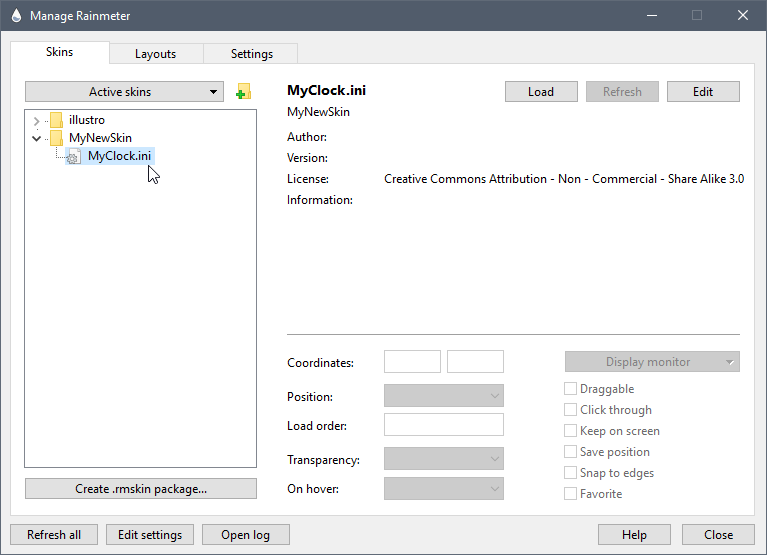
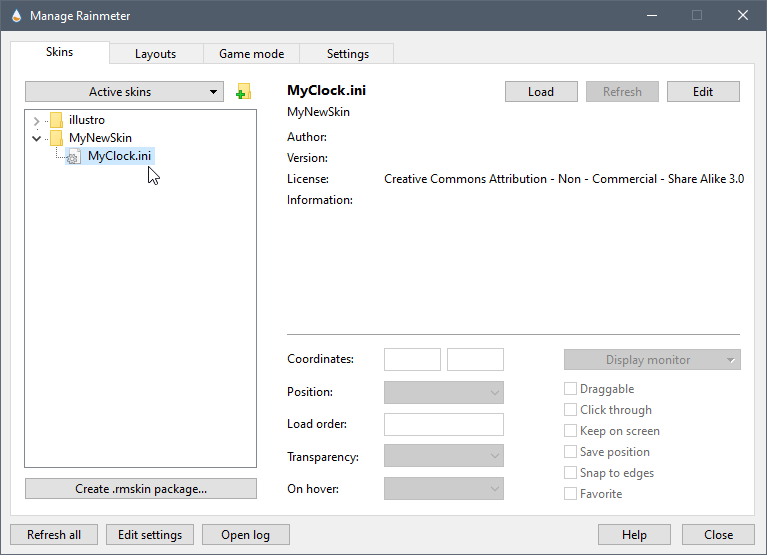
Changes for Game mode.

diff --git a/source/manual-beta/user-interface/manage/index.html b/source/manual-beta/user-interface/manage/index.html
@@ -196,6 +196,48 @@ title: 'Manage'
 
 <p>The current Rainmeter state will be replaced with the named layout. If Rainmeter is not running, it will be started.</p>
 
+<h2 id="GameModeTab">The Game mode tab</h2>
+
+<p>Game mode is used to unload some or all skins when running a full-screen game, in order to save Rainmeter CPU and GPU resources while playing.</p>
+
+<p>This can be configured to be <em>automatically</em> triggered by checking the <code>Full-screen games</code> box, which will automatically enter Game mode when any full-screen D3D game is active on the primary monitor.</p>
+
+<p>In addition, one or more processes of your choice that are not full-screen D3D games can be entered one process per line in the <code>Additional process list</code> text box, and when any of those processes are running, game mode will be triggered.</p>
+
+<div class="exampleprev">
+<a href="!img/user-interface/GameMode01.png" data-fancybox><img src="!img/user-interface/GameMode01.png"></a>
+</div>
+
+<h3 id="GameModeStart">On start</h3>
+
+<p>What happens when Game mode starts is controlled by the <code>On start</code> pulldown. This can be set to the default <code>Unload all skins</code> or any defined <a href="#LayoutsTab">Layout</a> that you create.</p>
+
+<div class="exampleprev">
+<a href="!img/user-interface/GameMode02.png" data-fancybox><img src="!img/user-interface/GameMode02.png"></a>
+</div>
+
+<h3 id="GameModeStop">On stop</h3>
+
+<p>What happens when Game mode stops is controlled by the <code>On stop</code> pulldown. This can be set to the default <code>Load current layout</code>, which will load the skins that were running before Game mode was triggered, or any defined <a href="#LayoutsTab">Layout</a> that you create.</p>
+
+<div class="exampleprev">
+<a href="!img/user-interface/GameMode03.png" data-fancybox><img src="!img/user-interface/GameMode03.png"></a>
+</div>
+
+<p>Simply create the <a href="#LayoutsTab">Layouts</a> you want to use for Game mode <code>start</code> and <code>stop</code>, and select them from these pulldowns.</p>
+
+<div class="exampleprev">
+<a href="!img/user-interface/GameMode04.png" data-fancybox><img src="!img/user-interface/GameMode04.png"></a>
+</div>
+
+<p>Game mode can also be started and stopped manually, as well as fully configured, from the Rainemter tray icon context menu.</p>
+
+<div class="exampleprev">
+<a href="!img/user-interface/GameModeContext01.png" data-fancybox><img src="!img/user-interface/GameModeContext01.png"></a>
+</div>
+
+<p><em><b>Note</b> that if you manually start or stop Game mode, the checkboxes for automatic triggering will be turned off, and you will need to enable them again, either from the context menu, or from Manage.</em></p>
+
 <h2 id="SettingsTab">The Settings tab</h2>
 
 <p>This tab has some high level settings for the Rainmeter application, as well as controls for Rainmeter's logging capability.</p>

diff --git a/source/history.html b/source/history.html
@@ -8,6 +8,11 @@ title: 'Version History'
 
 <h2 id="4.4">Rainmeter 4.4</h2><hr />
 
+<h3 id="r3445">April 10, 2021 - Revision 3445</h3>
+<ul>
+	<li><span class="badge badge-changed">Changed</span><b>Game mode:</b> Major changes to the functionality of Game mode.</li>
+</ul>
+
 <h3 id="r3438">March 13, 2021 - Revision 3438</h3>
 <ul>
 	<li><span class="badge badge-changed">Changed</span><b>About / Version:</b> Minor cosmetic change to placement of information in the dialog.</li>
